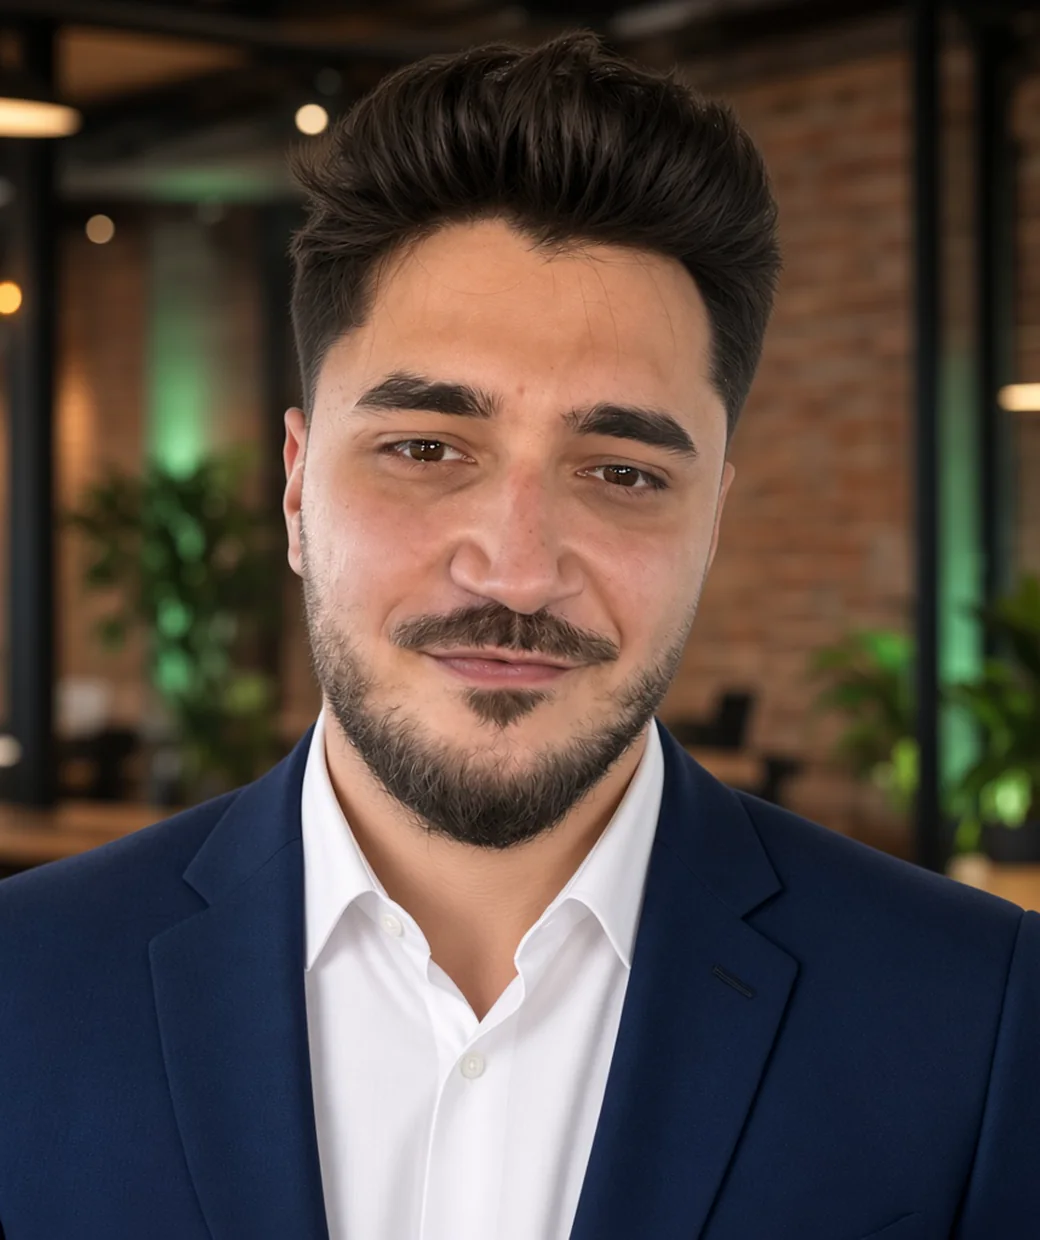
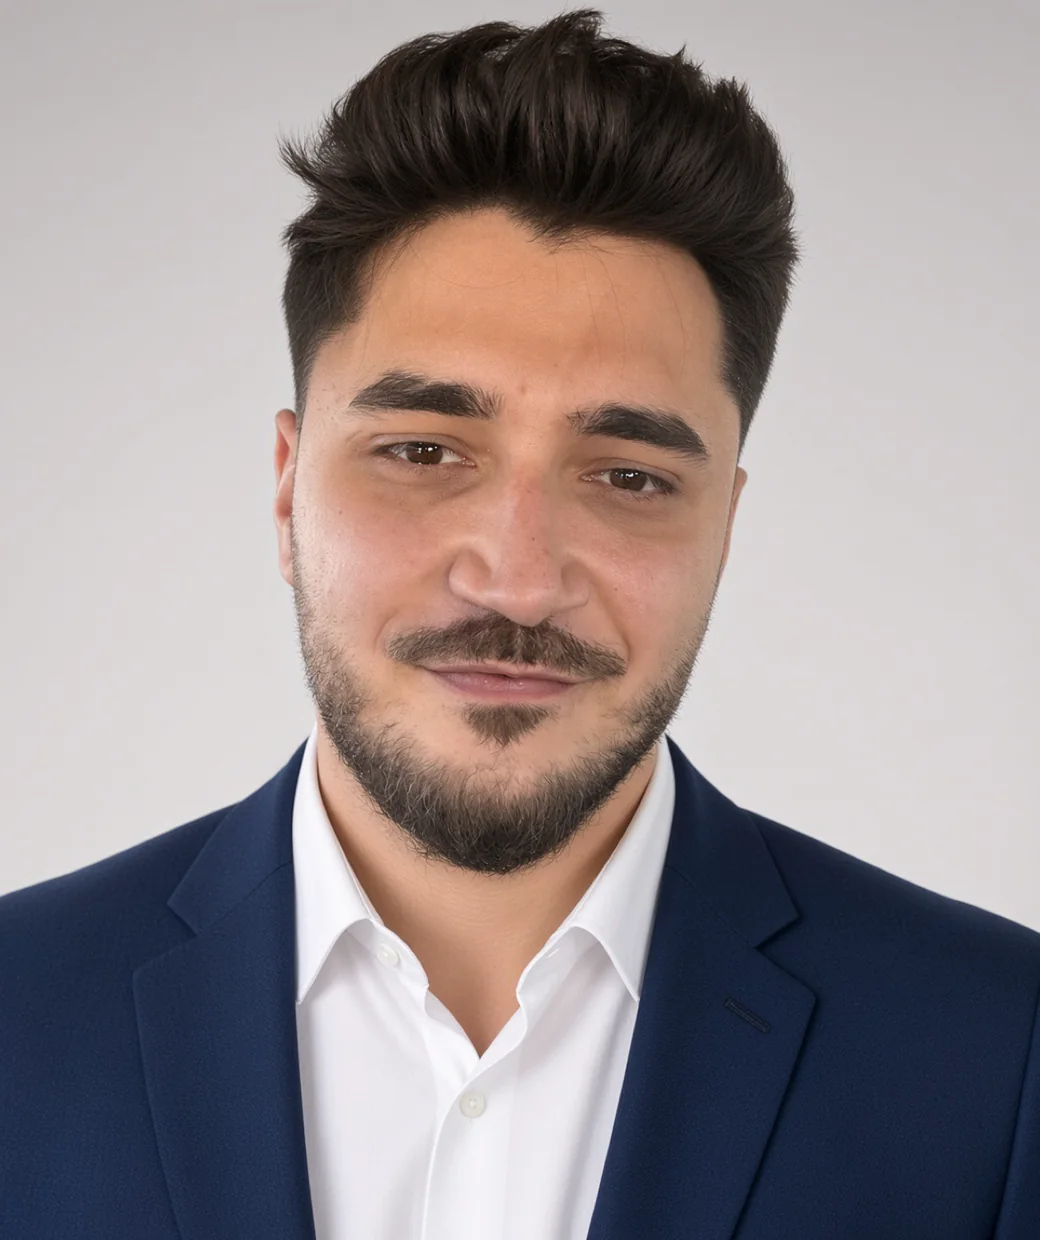
feat: use Remus's plain headshot in the founders section
Replace the office portrait with the approved grey-background headshot, cropped like Razvan's and served as responsive WebP and AVIF. The portrait alt text is his name in both languages.

diff --git a/src/render.ts b/src/render.ts
@@ -3,6 +3,8 @@ import type {
   CaseStudy,
   ContactConfig,
   FaqEntry,
+  FounderImageSource,
+  PortraitFormat,
   PrivacyContent,
   ProductId,
   ServicePage,
@@ -50,6 +52,46 @@ const pagesFor = (locale: Locale): ServicePage[] => {
 
 const homeHrefFor = (locale: Locale, baseUrl: string): string =>
   locale === "ro" ? publicAssetUrl("/ro/", baseUrl) : baseUrl;
+
+const PORTRAIT_SIZES = "(min-width: 48rem) 26rem, 80vw";
+
+const portraitFormat = (source: FounderImageSource): PortraitFormat => source.type ?? "image/webp";
+
+const renderPortraitSource = (
+  sources: FounderImageSource[],
+  type: PortraitFormat,
+  baseUrl: string,
+): string => {
+  if (sources.length === 0) {
+    return "";
+  }
+
+  const srcset = sources
+    .map(({ path, width }) => `${escapeHtml(publicAssetUrl(path, baseUrl))} ${width}w`)
+    .join(", ");
+
+  return `<source type="${type}" srcset="${srcset}" sizes="${PORTRAIT_SIZES}" />`;
+};
+
+const renderFounderPicture = (
+  image: string,
+  imageSources: FounderImageSource[],
+  alt: string,
+  baseUrl: string,
+): string => {
+  const avif = renderPortraitSource(
+    imageSources.filter((source) => portraitFormat(source) === "image/avif"),
+    "image/avif",
+    baseUrl,
+  );
+  const webp = renderPortraitSource(
+    imageSources.filter((source) => portraitFormat(source) === "image/webp"),
+    "image/webp",
+    baseUrl,
+  );
+
+  return `<picture>${avif}${webp}<img src="${escapeHtml(publicAssetUrl(image, baseUrl))}" alt="${escapeHtml(alt)}" width="520" height="620" loading="lazy" decoding="async" /></picture>`;
+};
 
 const renderContactActions = (
   config: ContactConfig,
@@ -460,19 +502,15 @@ export const renderHomepage = (
     .join("");
   const founders = content.founders
     .map(
-      ({ name, role, image, imageSources, linkedin, bio }) => {
-        const srcset = imageSources.length
-          ? ` srcset="${imageSources
-              .map(({ path, width }) => `${escapeHtml(publicAssetUrl(path, baseUrl))} ${width}w`)
-              .join(", ")}" sizes="(min-width: 48rem) 26rem, 80vw"`
-          : "";
+      ({ name, role, image, imageAlt, imageSources, linkedin, bio }) => {
         const paragraphs = bio.map((paragraph) => `<p>${escapeHtml(paragraph)}</p>`).join("");
+        const alt = imageAlt ?? copy.portraitAlt(name);
 
         return `
         <article class="founder" data-reveal>
           <div class="founder__portrait">
             <div class="founder__portrait-frame">
-              <img src="${escapeHtml(publicAssetUrl(image, baseUrl))}"${srcset} alt="${escapeHtml(copy.portraitAlt(name))}" width="520" height="620" loading="lazy" />
+              ${renderFounderPicture(image, imageSources, alt, baseUrl)}
             </div>
           </div>
           <div class="founder__details">

diff --git a/tests/render.test.ts b/tests/render.test.ts
@@ -290,7 +290,9 @@ describe("homepage renderer", () => {
       'src="/team/remus_baciu-520.webp"',
     );
     expect(pagesHtml).toContain('srcset="/team/razvan_cristofor-520.webp 520w, /team/razvan_cristofor-1040.webp 1040w" sizes="(min-width: 48rem) 26rem, 80vw"');
-    expect(pagesHtml).toContain('srcset="/team/remus_baciu-520.webp 520w, /team/remus_baciu-1040.webp 1040w" sizes="(min-width: 48rem) 26rem, 80vw"');
+    expect(pagesHtml).toContain('<source type="image/avif" srcset="/team/remus_baciu-520.avif 520w, /team/remus_baciu-1040.avif 1040w" sizes="(min-width: 48rem) 26rem, 80vw" />');
+    expect(pagesHtml).toContain('<source type="image/webp" srcset="/team/remus_baciu-520.webp 520w, /team/remus_baciu-1040.webp 1040w" sizes="(min-width: 48rem) 26rem, 80vw" />');
+    expect(pagesHtml).toContain('alt="Remus Baciu" width="520" height="620" loading="lazy"');
   });
 
   it("omits the background grid so it does not compete with the hero process", () => {
@@ -337,9 +339,10 @@ describe("homepage renderer", () => {
     expect(team).toBeDefined();
     expect(html).not.toContain('id="about"');
     expect(html).not.toContain("About me");
-    siteContent.founders.forEach(({ name, bio }) => {
+    siteContent.founders.forEach(({ name, bio, imageAlt }) => {
+      const marker = imageAlt ?? `Portrait of ${name}`;
       const card = team?.match(
-        new RegExp(`<article class="founder"[\\s\\S]*?Portrait of ${name}[\\s\\S]*?</article>`),
+        new RegExp(`<article class="founder"[\\s\\S]*?${marker}[\\s\\S]*?</article>`),
       )?.[0];
 
       expect(card).toBeDefined();
@@ -358,15 +361,16 @@ describe("homepage renderer", () => {
   });
 
   it("renders two founder cards with portraits and LinkedIn links", () => {
-    siteContent.founders.forEach(({ image, linkedin, name }) => {
+    siteContent.founders.forEach(({ image, imageAlt, linkedin, name }) => {
       expect(html).toContain(`src="${image}"`);
       expect(html).toContain(name);
-      expect(html).toContain(`alt="Portrait of ${name}"`);
+      expect(html).toContain(`alt="${imageAlt ?? `Portrait of ${name}`}"`);
+      expect(html).toContain(`loading="lazy"`);
       expect(html).toContain(`class="founder__linkedin" href="${linkedin}"`);
       expect(html.match(/founder__linkedin/g)).toHaveLength(2);
     });
     expect(html.match(/class="founder__portrait-frame"/g)).toHaveLength(2);
-    expect(html.match(/ srcset="/g)).toHaveLength(2);
+    expect(html.match(/ srcset="/g)).toHaveLength(3);
     expect(html).not.toContain("Placeholder portrait");
     expect(html).not.toContain("Photo placeholder");
   });

diff --git a/src/content.ts b/src/content.ts
@@ -12,15 +12,19 @@ export interface ProductOffer {
   outcome: string;
 }
 
+export type PortraitFormat = "image/webp" | "image/avif";
+
 export interface FounderImageSource {
   path: string;
   width: number;
+  type?: PortraitFormat;
 }
 
 export interface FounderProfile {
   name: string;
   role: string;
   image: string;
+  imageAlt?: string;
   imageSources: FounderImageSource[];
   linkedin: string;
   bio: string[];
@@ -173,9 +177,12 @@ export const siteContent: SiteContent = {
       name: "Remus Baciu",
       role: "Co-founder",
       image: "/team/remus_baciu-520.webp",
+      imageAlt: "Remus Baciu",
       imageSources: [
-        { path: "/team/remus_baciu-520.webp", width: 520 },
-        { path: "/team/remus_baciu-1040.webp", width: 1040 },
+        { path: "/team/remus_baciu-520.avif", width: 520, type: "image/avif" },
+        { path: "/team/remus_baciu-1040.avif", width: 1040, type: "image/avif" },
+        { path: "/team/remus_baciu-520.webp", width: 520, type: "image/webp" },
+        { path: "/team/remus_baciu-1040.webp", width: 1040, type: "image/webp" },
       ],
       linkedin: "https://linkedin.com/in/remus-baciu-4a11a7105",
       bio: [

diff --git a/tests/content.test.ts b/tests/content.test.ts
@@ -100,9 +100,12 @@ describe("site content", () => {
         name: "Remus Baciu",
         role: "Co-founder",
         image: "/team/remus_baciu-520.webp",
+        imageAlt: "Remus Baciu",
         imageSources: [
-          { path: "/team/remus_baciu-520.webp", width: 520 },
-          { path: "/team/remus_baciu-1040.webp", width: 1040 },
+          { path: "/team/remus_baciu-520.avif", width: 520, type: "image/avif" },
+          { path: "/team/remus_baciu-1040.avif", width: 1040, type: "image/avif" },
+          { path: "/team/remus_baciu-520.webp", width: 520, type: "image/webp" },
+          { path: "/team/remus_baciu-1040.webp", width: 1040, type: "image/webp" },
         ],
         linkedin: "https://linkedin.com/in/remus-baciu-4a11a7105",
         bio: [

diff --git a/tests/assets.test.ts b/tests/assets.test.ts
@@ -4,12 +4,12 @@ import { siteContent } from "../src/content";
 
 const PORTRAIT_BUDGET_BYTES = 150 * 1024;
 
-describe("portrait assets", () => {  it("ships every portrait as WebP under the audit budget", () => {
+describe("portrait assets", () => {  it("ships every portrait as WebP or AVIF under the audit budget", () => {
     siteContent.founders.forEach(({ image, imageSources }) => {
       [image, ...imageSources.map(({ path }) => path)].forEach((path) => {
         const { size } = statSync(new URL(`../public${path}`, import.meta.url));
 
-        expect(path).toMatch(/\.webp$/);
+        expect(path).toMatch(/\.(webp|avif)$/);
         expect(size, path).toBeGreaterThan(0);
         expect(size, path).toBeLessThan(PORTRAIT_BUDGET_BYTES);
       });

diff --git a/src/content-ro.ts b/src/content-ro.ts
@@ -116,9 +116,12 @@ export const siteContentRo: SiteContent = {
       name: "Remus Baciu",
       role: "Cofondator",
       image: "/team/remus_baciu-520.webp",
+      imageAlt: "Remus Baciu",
       imageSources: [
-        { path: "/team/remus_baciu-520.webp", width: 520 },
-        { path: "/team/remus_baciu-1040.webp", width: 1040 },
+        { path: "/team/remus_baciu-520.avif", width: 520, type: "image/avif" },
+        { path: "/team/remus_baciu-1040.avif", width: 1040, type: "image/avif" },
+        { path: "/team/remus_baciu-520.webp", width: 520, type: "image/webp" },
+        { path: "/team/remus_baciu-1040.webp", width: 1040, type: "image/webp" },
       ],
       linkedin: "https://linkedin.com/in/remus-baciu-4a11a7105",
       bio: [

diff --git a/src/styles.css b/src/styles.css
@@ -1827,6 +1827,12 @@ main > section.hero {
   border: 1px solid var(--line);
 }
 
+.founder__portrait-frame picture {
+  display: block;
+  width: 100%;
+  height: 100%;
+}
+
 .founder__portrait-frame img {
   display: block;
   width: 100%;
